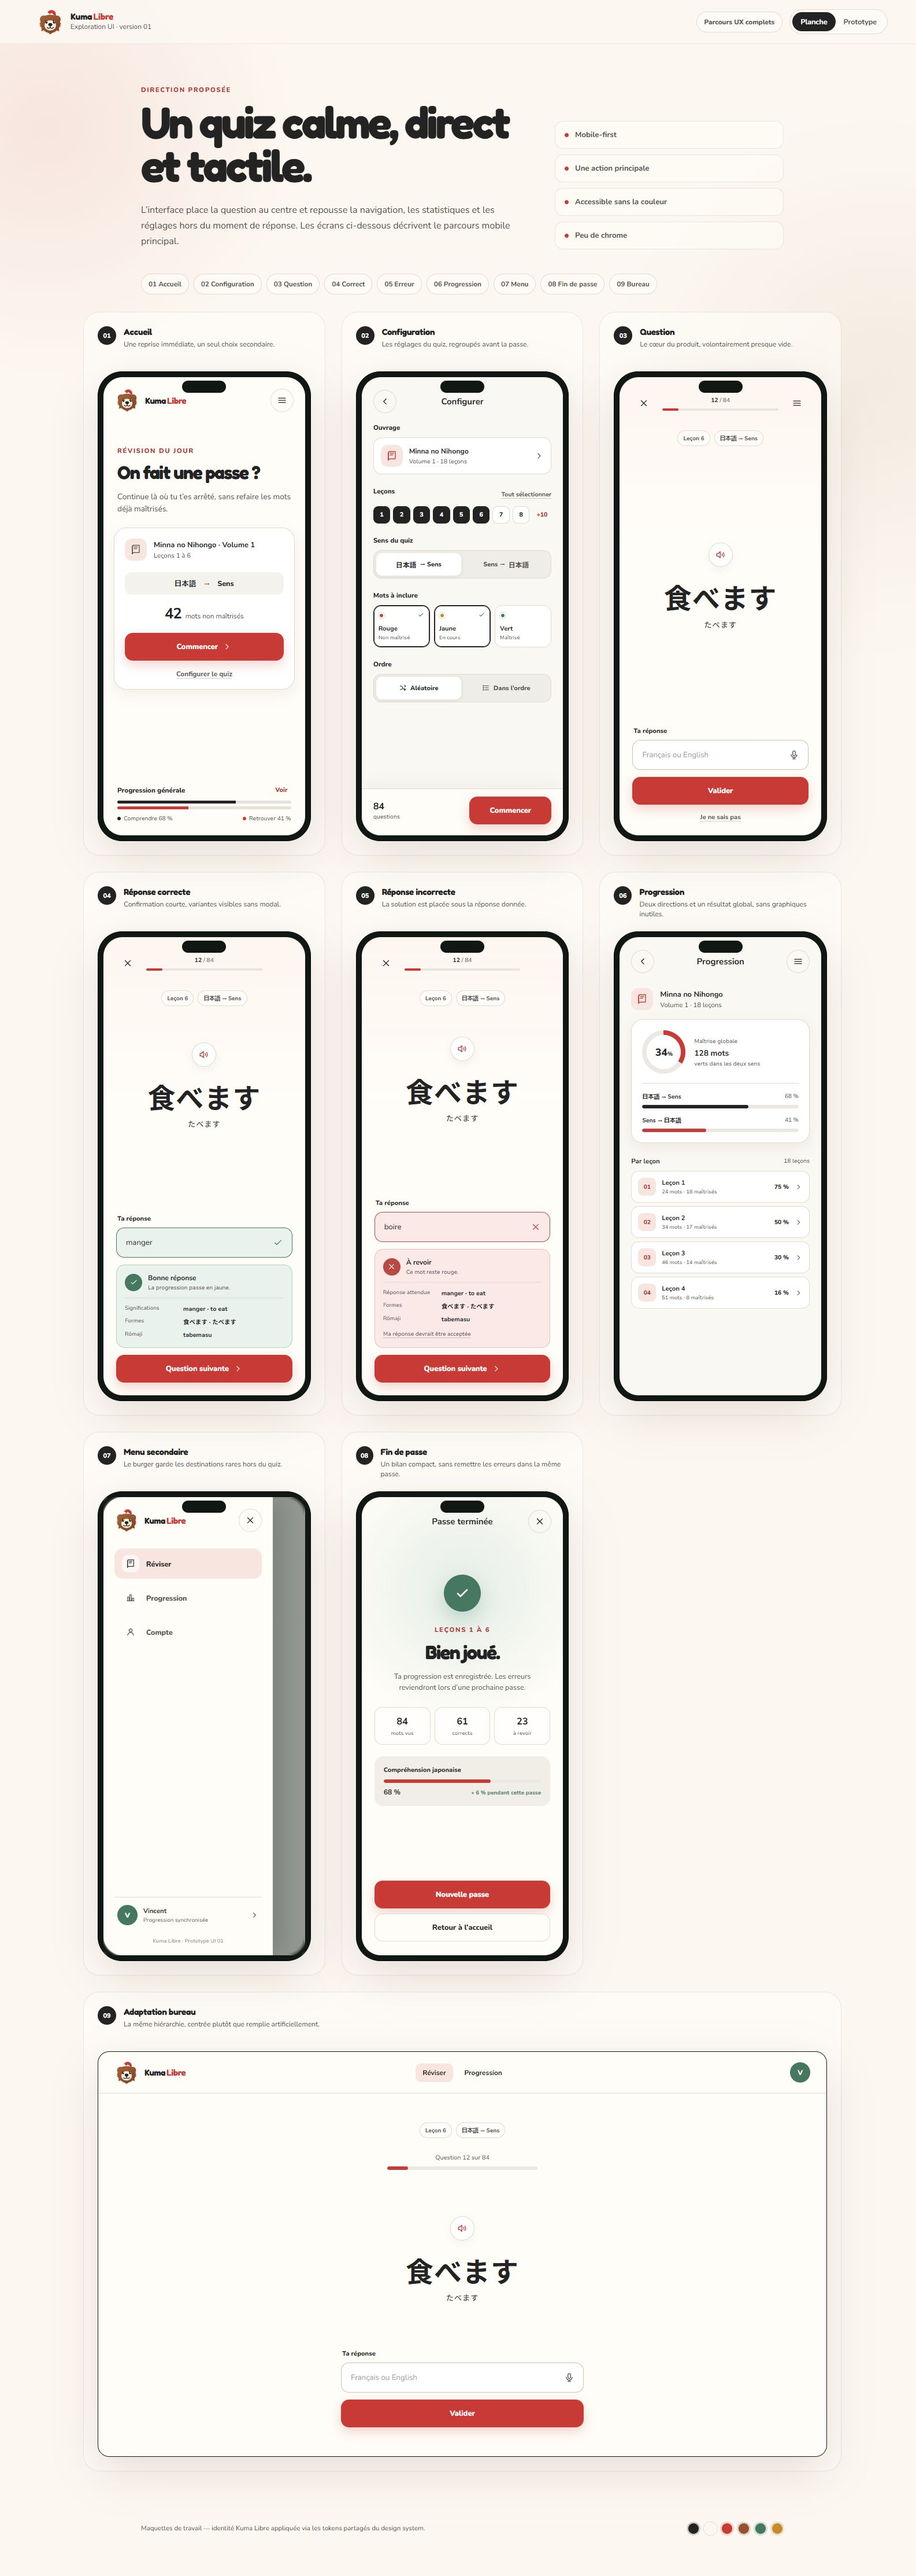
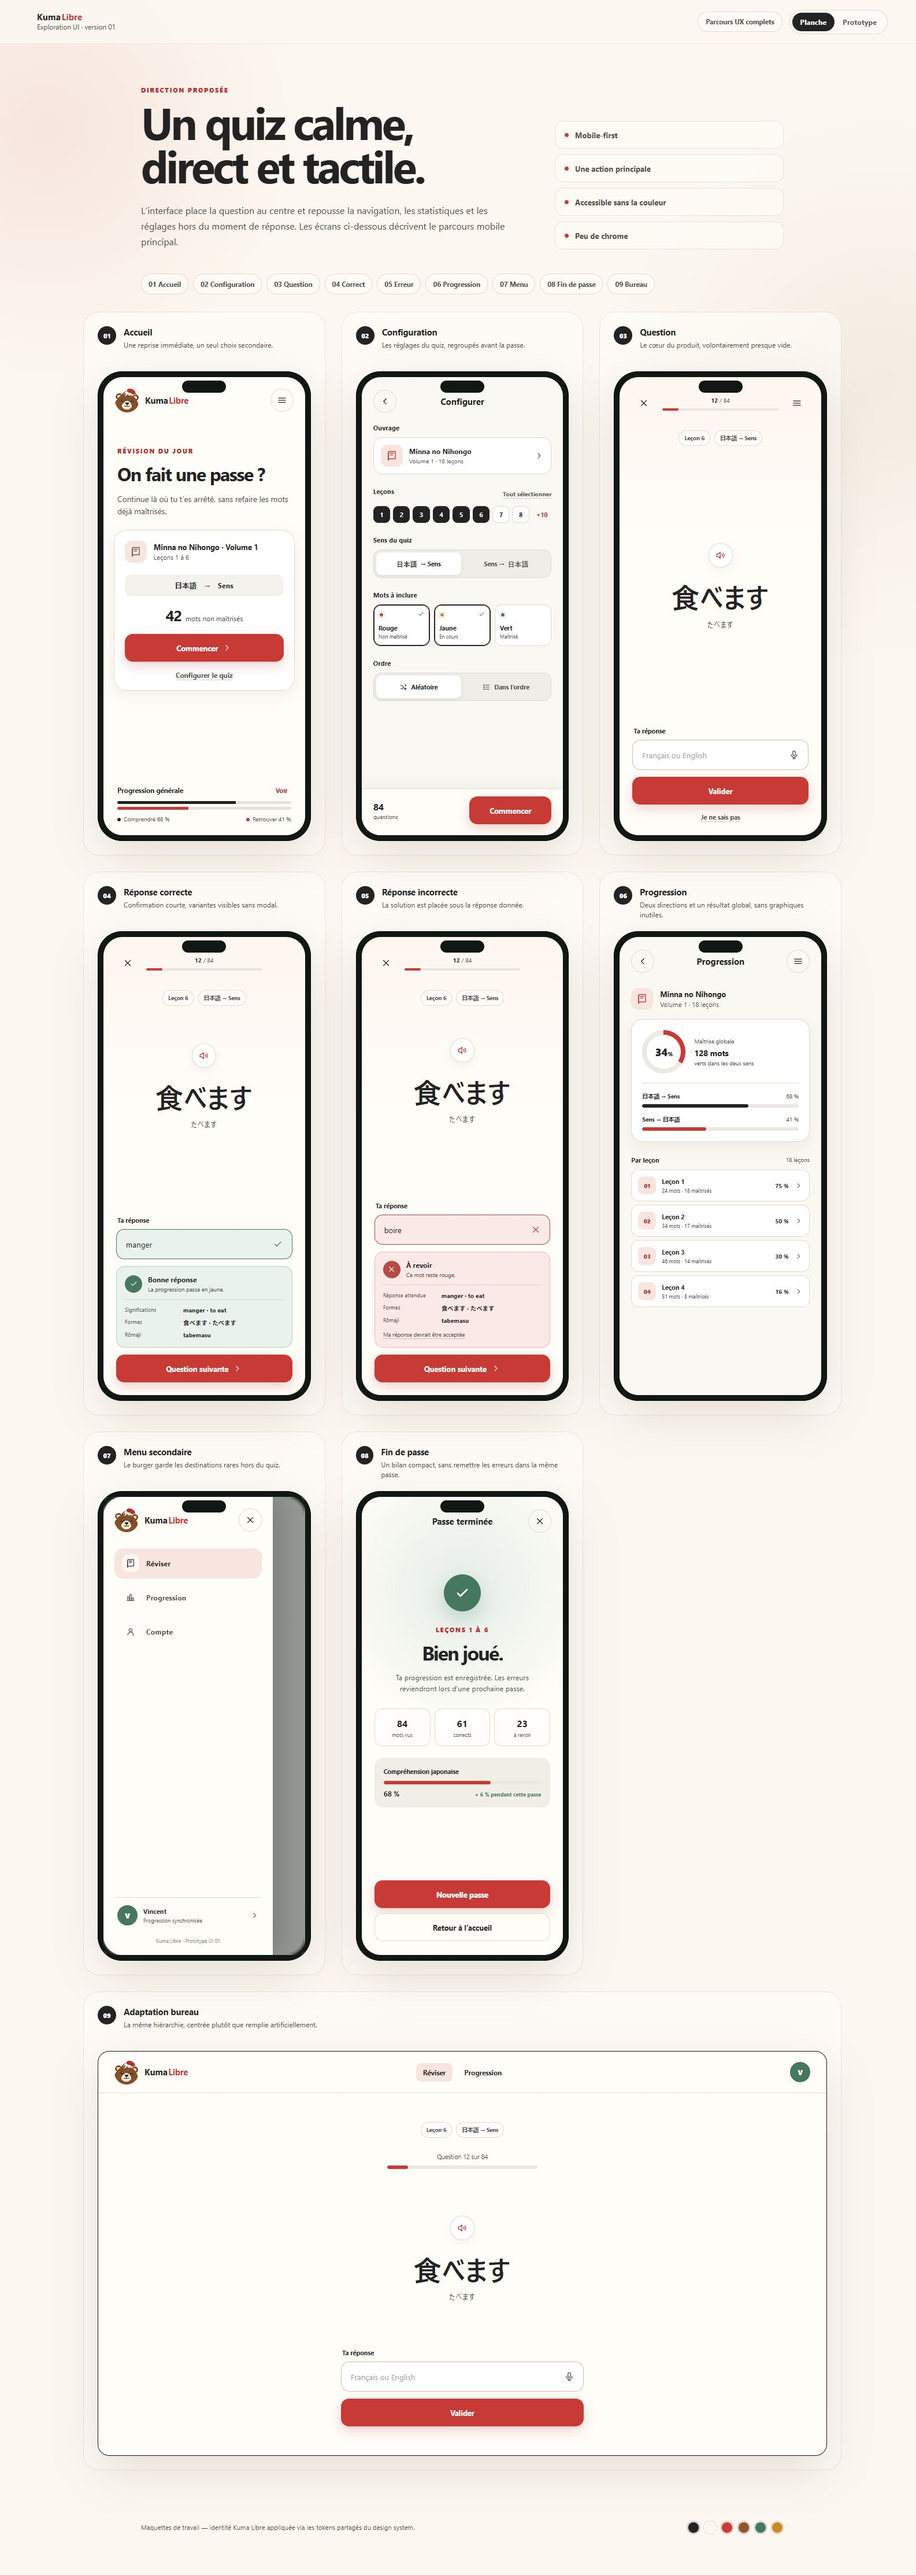
design: refine Kuma Libre brand direction

diff --git a/mockups/v1/index.html b/mockups/v1/index.html
@@ -59,7 +59,6 @@
 
     <header class="review-header">
       <div class="review-brand">
-        <img class="brand-mark brand-mark--small" src="../design-system/assets/kuma-bear.svg" alt="" />
         <div>
           <strong class="brand-wordmark"><span>Kuma</span><span>Libre</span></strong>
           <span>Exploration UI · version 01</span>
@@ -118,7 +117,7 @@
           <section class="app-screen home-screen">
             <header class="app-header">
               <a class="app-brand" href="#" aria-label="Kuma Libre">
-                <img class="brand-mark" src="../design-system/assets/kuma-bear.svg" alt="" />
+                <span class="brand-mark" aria-hidden="true"></span>
                 <span class="brand-wordmark"><span>Kuma</span><span>Libre</span></span>
               </a>
               <button class="icon-button" type="button" aria-label="Ouvrir le menu" data-go="menu">
@@ -547,7 +546,7 @@
             <aside class="menu-drawer">
               <div class="menu-drawer__header">
                 <a class="app-brand" href="#">
-                  <img class="brand-mark" src="../design-system/assets/kuma-bear.svg" alt="" />
+                  <span class="brand-mark" aria-hidden="true"></span>
                   <span class="brand-wordmark"><span>Kuma</span><span>Libre</span></span>
                 </a>
                 <button class="icon-button" type="button" aria-label="Fermer le menu" data-go="home">
@@ -640,7 +639,7 @@
         <div class="desktop-frame">
           <header class="desktop-header">
             <a class="app-brand" href="#">
-              <img class="brand-mark" src="../design-system/assets/kuma-bear.svg" alt="" />
+              <span class="brand-mark" aria-hidden="true"></span>
               <span class="brand-wordmark"><span>Kuma</span><span>Libre</span></span>
             </a>
             <nav><button type="button">Réviser</button><button type="button" data-go="progress">Progression</button></nav>

diff --git a/mockups/v1/flows.css b/mockups/v1/flows.css
@@ -1,4 +1,3 @@
-@import url("../design-system/styles/fonts.css");
 @import url("../design-system/styles/tokens.css");
 @import url("../design-system/styles/brand.css");
 
@@ -47,13 +46,6 @@ body {
   -webkit-font-smoothing: antialiased;
 }
 
-h1,
-h2,
-h3,
-h4 {
-  font-family: var(--font-display);
-}
-
 button,
 input {
   color: inherit;
@@ -97,7 +89,6 @@ button {
 }
 
 .flows-brand strong {
-  font-family: var(--font-display);
   font-size: 0.94rem;
   letter-spacing: -0.02em;
 }
@@ -111,13 +102,18 @@ button {
   display: block;
   width: 46px;
   height: 46px;
-  object-fit: contain;
+  border-radius: 50%;
+  background-color: var(--surface);
+  background-image: url("../design-system/assets/kuma-bear-wink.png");
+  background-position: 50% 43%;
+  background-repeat: no-repeat;
+  background-size: 188% auto;
 }
 
 .brand-wordmark {
   display: inline-flex;
   gap: 0.12em;
-  font-family: var(--font-display);
+  font-family: var(--font-sans);
   font-weight: 700;
   letter-spacing: -0.04em;
   line-height: 1;
@@ -769,13 +765,18 @@ main {
   display: block;
   width: 30px;
   height: 30px;
-  object-fit: contain;
+  border-radius: 50%;
+  background-color: var(--surface);
+  background-image: url("../design-system/assets/kuma-bear-wink.png");
+  background-position: 50% 43%;
+  background-repeat: no-repeat;
+  background-size: 188% auto;
 }
 
 .mini-wordmark {
   display: inline-flex;
   gap: 0.12em;
-  font-family: var(--font-display);
+  font-family: var(--font-sans);
   font-weight: 700;
   letter-spacing: -0.04em;
 }
@@ -840,7 +841,12 @@ main {
   width: 112px;
   height: 112px;
   margin-bottom: 24px;
-  object-fit: contain;
+  border-radius: 50%;
+  background-color: var(--surface);
+  background-image: url("../design-system/assets/kuma-bear-wink.png");
+  background-position: 50% 43%;
+  background-repeat: no-repeat;
+  background-size: 188% auto;
 }
 
 .loader-view > strong {

diff --git a/mockups/v1/flows.js b/mockups/v1/flows.js
@@ -84,11 +84,11 @@ const routeEdges = [
 const screenTemplates = {
   loader: () => `
     <div class="product-screen loader-view">
-      <img class="loader-bear" src="../design-system/assets/kuma-bear.svg" alt="Kuma, la mascotte de Kuma Libre" />
+      <div class="loader-bear" role="img" aria-label="Kuma, la mascotte de Kuma Libre"></div>
       <strong>Kuma Libre</strong>
       <p>Préparation de ta révision…</p>
       <i class="loading-line"><u></u></i>
-      <small>Animation SVG · mouvement réduit respecté</small>
+      <small>Mascotte provisoire · animation à étudier plus tard</small>
     </div>`,
 
   landing: () => `
@@ -424,7 +424,7 @@ const flows = [
 ];
 
 function miniBrand(action) {
-  return `<div class="mini-brand"><img class="mini-logo" src="../design-system/assets/kuma-bear.svg" alt="" /><strong class="mini-wordmark"><span>Kuma</span><span>Libre</span></strong><button>${action}</button></div>`;
+  return `<div class="mini-brand"><span class="mini-logo" aria-hidden="true"></span><strong class="mini-wordmark"><span>Kuma</span><span>Libre</span></strong><button>${action}</button></div>`;
 }
 
 function miniHeader(title, left = "", right = "") {

diff --git a/mockups/v1/styles.css b/mockups/v1/styles.css
@@ -1,4 +1,3 @@
-@import url("../design-system/styles/fonts.css");
 @import url("../design-system/styles/tokens.css");
 @import url("../design-system/styles/brand.css");
 
@@ -46,13 +45,6 @@ body {
     var(--paper);
   font-family: var(--font-sans);
   -webkit-font-smoothing: antialiased;
-}
-
-h1,
-h2,
-h3,
-h4 {
-  font-family: var(--font-display);
 }
 
 button,
@@ -114,7 +106,6 @@ svg {
 }
 
 .review-brand strong {
-  font-family: var(--font-display);
   font-size: 0.96rem;
   letter-spacing: -0.01em;
 }
@@ -129,7 +120,12 @@ svg {
   flex: 0 0 auto;
   width: 42px;
   height: 42px;
-  object-fit: contain;
+  border-radius: 50%;
+  background-color: var(--surface);
+  background-image: url("../design-system/assets/kuma-bear-wink.png");
+  background-position: 50% 43%;
+  background-repeat: no-repeat;
+  background-size: 188% auto;
 }
 
 .brand-mark--small {
@@ -140,7 +136,7 @@ svg {
 .brand-wordmark {
   display: inline-flex;
   gap: 0.12em;
-  font-family: var(--font-display);
+  font-family: var(--font-sans);
   font-weight: 700;
   letter-spacing: -0.04em;
   line-height: 1;

diff --git a/mockups/design-system/styles/tokens.css b/mockups/design-system/styles/tokens.css
@@ -56,9 +56,9 @@
   --kl-color-info-soft: var(--kl-blue-100);
 
   /* Type roles. */
-  --kl-font-display: "Fredoka", "Arial Rounded MT Bold", ui-rounded, system-ui, sans-serif;
-  --kl-font-body: "Nunito Sans", Avenir, "Segoe UI", system-ui, sans-serif;
-  --kl-font-japanese: "Noto Sans JP", "Yu Gothic UI", "Hiragino Sans", sans-serif;
+  --kl-font-body: Inter, ui-sans-serif, system-ui, -apple-system, BlinkMacSystemFont, "Segoe UI", sans-serif;
+  --kl-font-display: var(--kl-font-body);
+  --kl-font-japanese: "Yu Gothic UI", "Hiragino Sans", "Noto Sans JP", var(--kl-font-body);
   --kl-weight-regular: 400;
   --kl-weight-medium: 600;
   --kl-weight-bold: 700;

diff --git a/mockups/design-system/styles/brand.css b/mockups/design-system/styles/brand.css
@@ -11,11 +11,16 @@
   width: 2.75rem;
   height: 2.75rem;
   flex: 0 0 auto;
-  object-fit: contain;
+  border-radius: 50%;
+  background-color: var(--kl-color-surface);
+  background-image: url("../assets/kuma-bear-wink.png");
+  background-position: 50% 43%;
+  background-repeat: no-repeat;
+  background-size: 188% auto;
 }
 
 .kl-brand__wordmark {
-  font-family: var(--kl-font-display);
+  font-family: var(--kl-font-body);
   font-size: 1.08rem;
   font-weight: 700;
   letter-spacing: -0.035em;

diff --git a/mockups/v1/flows.html b/mockups/v1/flows.html
@@ -13,7 +13,6 @@
   <body>
     <header class="flows-header">
       <a class="flows-brand" href="index.html" aria-label="Retour aux maquettes Kuma Libre">
-        <img class="brand-mark" src="../design-system/assets/kuma-bear.svg" alt="" />
         <span><strong class="brand-wordmark"><span>Kuma</span><span>Libre</span></strong><small>Parcours UX · V1</small></span>
       </a>
       <nav aria-label="Navigation de la planche">

diff --git a/mockups/design-system/README.md b/mockups/design-system/README.md
@@ -6,30 +6,27 @@ Ce dossier transforme les références visuelles générées en fondations réut
 
 - `styles/tokens.css` contient la palette primitive et les rôles sémantiques, la typographie, les espacements, les rayons et les ombres.
 - `styles/tokens.scss` expose des alias SCSS vers les variables CSS, sans recopier les valeurs hexadécimales.
-- `styles/fonts.css` charge les fontes des maquettes. En production, elles devront être auto-hébergées.
 - `styles/brand.css` fournit le lockup HTML de la marque.
-- `assets/kuma-bear.svg` est une adaptation vectorielle propre de la mascotte, et non une vectorisation automatique pixel à pixel.
+- `assets/kuma-bear-wink.png` est la référence raster provisoire de la mascotte avec son clin d’œil.
 
 ## Direction retenue
 
-- **Titres et marque** : Fredoka, choisie pour son dessin rond et amical proche de la référence.
-- **Interface** : Nunito Sans, plus lisible dans les petits composants et sur mobile.
-- **Japonais** : Noto Sans JP.
+- **Typographie** : retour à la pile sobre d’origine basée sur Inter et les fontes système.
+- **Japonais** : Yu Gothic UI, Hiragino Sans ou Noto Sans JP selon la plateforme.
 - **Action principale** : rouge vermillon.
 - **Fond** : crème chaud, avec des surfaces presque blanches.
 - **Mascotte** : brun caramel, museau crème, montagne et soleil rouge.
 
-La fonte exacte des visuels générés ne peut pas être identifiée avec certitude depuis un PNG. Les choix ci-dessus forment une direction cohérente et utilisable sur le web.
+La fonte du visuel généré n’est pas reprise pour l’instant. Le choix typographique final reste ouvert.
 
 ## Utilisation
 
 ```html
-<link rel="stylesheet" href="../design-system/styles/fonts.css" />
 <link rel="stylesheet" href="../design-system/styles/tokens.css" />
 <link rel="stylesheet" href="../design-system/styles/brand.css" />
 
 <a class="kl-brand" href="#">
-  <img class="kl-brand__bear" src="../design-system/assets/kuma-bear.svg" alt="" />
+  <span class="kl-brand__bear" aria-hidden="true"></span>
   <span class="kl-brand__wordmark">
     <span class="kl-brand__wordmark-kuma">Kuma</span>
     <span class="kl-brand__wordmark-libre">Libre</span>
@@ -37,5 +34,5 @@ La fonte exacte des visuels générés ne peut pas être identifiée avec certit
 </a>
 ```
 
-Le SVG contient deux groupes nommés `kuma-eye-left` et `kuma-eye-right`. Ils clignent ensemble par défaut et pourront plus tard être pilotés séparément si la mascotte est injectée en SVG inline dans l’application. L’animation respecte `prefers-reduced-motion`.
+La mascotte reste volontairement en PNG pour cette étape. Une éventuelle vectorisation et l’animation des yeux sont repoussées jusqu’à validation du dessin définitif.
 

diff --git a/mockups/v1/README.md b/mockups/v1/README.md
@@ -6,8 +6,8 @@ La direction visuelle est partagée avec les autres futurs écrans via `../desig
 
 - variables CSS primitives et sémantiques ;
 - pont SCSS sans duplication des valeurs ;
-- Fredoka pour les titres, Nunito Sans pour l’interface et Noto Sans JP pour le japonais ;
-- mascotte SVG avec yeux indépendants et clignement respectueux de `prefers-reduced-motion`.
+- typographie sobre d’origine fondée sur Inter et les fontes système ;
+- mascotte PNG provisoire avec clin d’œil, en attendant la validation d’une future version vectorielle.
 
 ## Consultation
 
@@ -54,13 +54,12 @@ Deux captures sont également fournies :
 - les résultats utilisent une icône et un libellé en plus de la couleur ;
 - la progression distingue compréhension, production et maîtrise globale ;
 - la version bureau conserve une colonne de lecture étroite au lieu d'étirer le contenu ;
-- aucun framework n'est nécessaire pour consulter les maquettes ;
-- les fontes web utilisent Google Fonts dans ce prototype, avec des fallbacks système lorsque la connexion n’est pas disponible.
+- aucun framework ou asset distant n'est nécessaire pour consulter les maquettes.
 
 ## Points encore à confirmer
 
 - présence définitive du bouton `Je ne sais pas` ;
 - règle exacte de passage du jaune au vert ;
 - affichage systématique ou facultatif des kana sous les kanji ;
-- validation finale de la mascotte vectorielle, du mot-symbole et de leurs proportions ;
+- validation finale de la mascotte, du mot-symbole et de leurs proportions ;
 - contenu exact du bilan de fin de passe.
